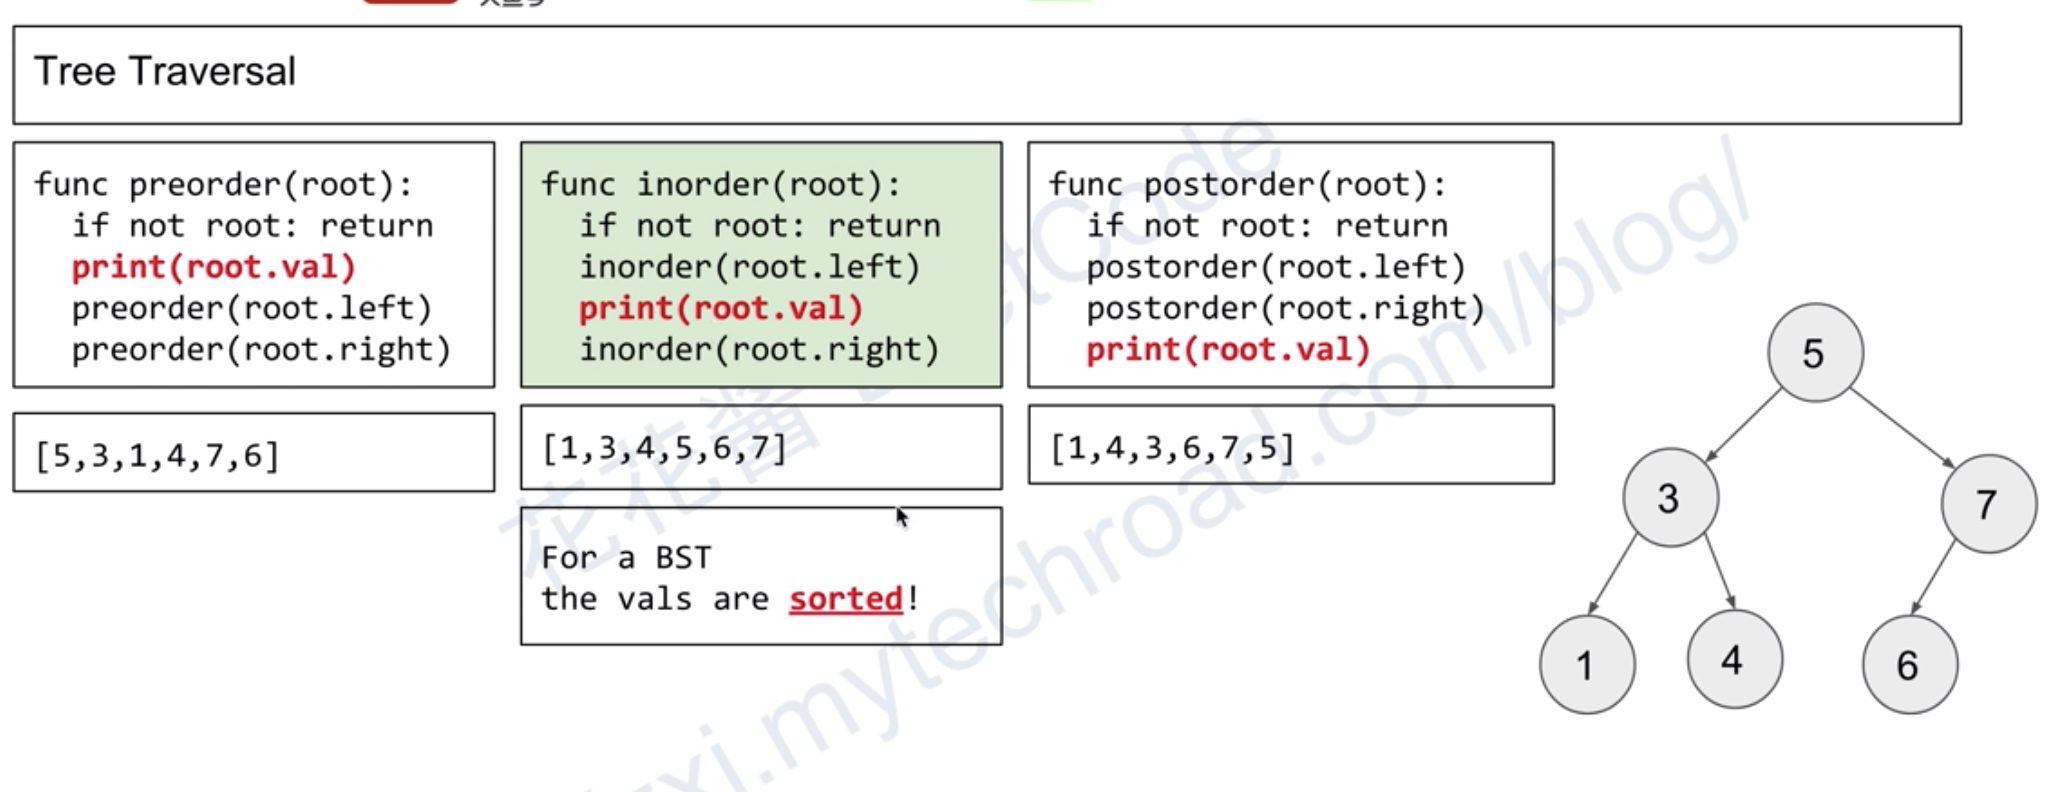
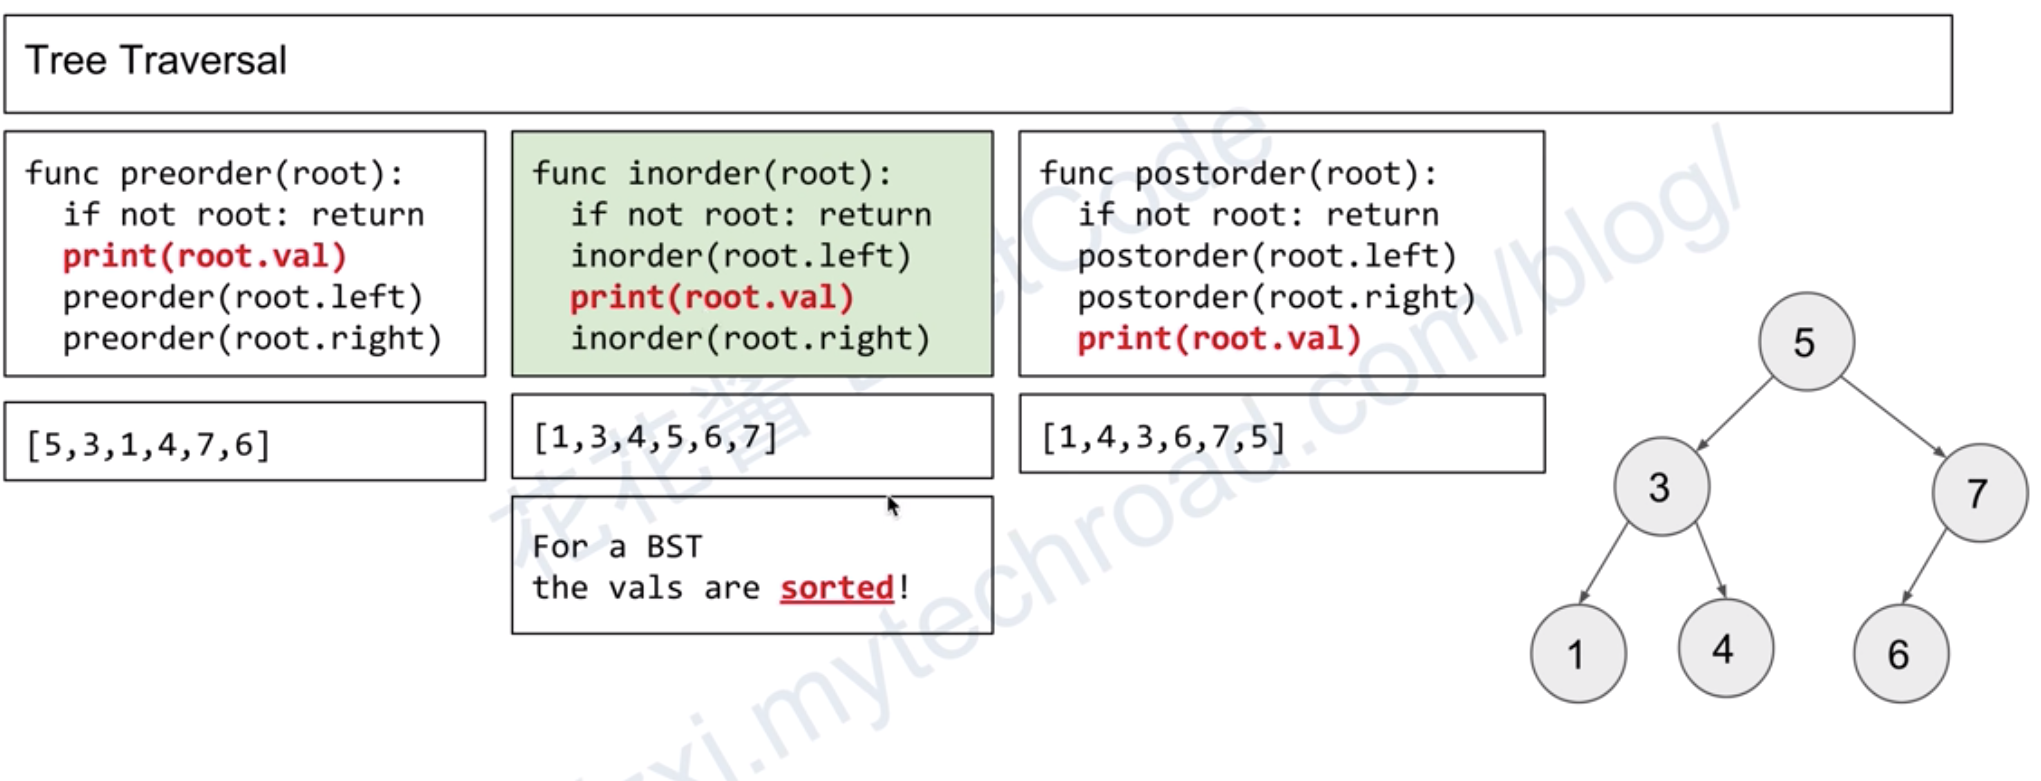
tree traversal

diff --git a/Common Algorithm and Theory/树图遍历.md b/Common Algorithm and Theory/树图遍历.md
@@ -1,6 +1,6 @@
 遍历既可以应用在树上也可以应用在图上，无论是树还是图，遍历都可以大致分为两类：1. 深度优先，2. 广度优先。  
   
 树的遍历：  
-1. 深度优先：深度优先又可以分为三类：即前序遍历、中序遍历和后序遍历。
+1. 深度优先：深度优先又可以分为三类：即前序遍历、中序遍历和后序遍历。（以下是树遍历的图解，例子中的树为二叉搜索树 BST，遍历也适合其他的树数据结构）
    ![](树的三种遍历.png)
 2. 广度优先：（无论图还是树，一般常用 Queue 来实现广度优先搜索）。
